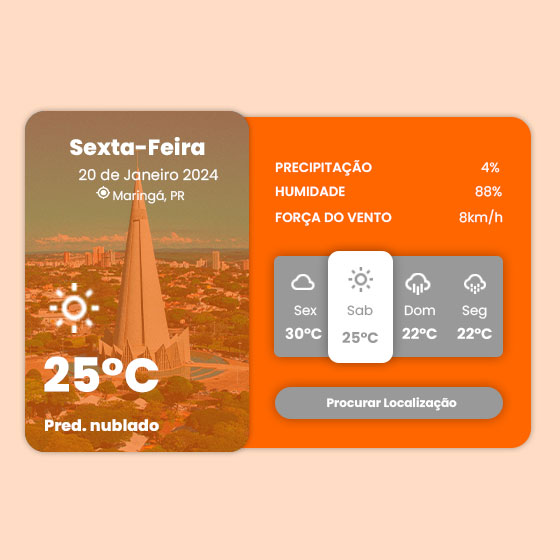
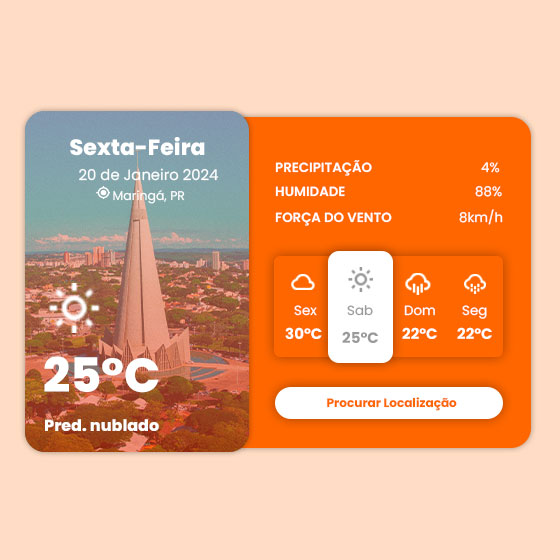
HTML e CSS

diff --git a/style.css b/style.css
@@ -1,0 +1,173 @@
+  @import url('https://fonts.googleapis.com/css2?family=Gilda+Display&family=Poppins:wght@300;400;500;600;700;800&display=swap');
+
+  *{
+    margin: 0;
+    padding: 0;
+    box-sizing: border-box;
+    font-family: 'Poppins', sans-serif;
+  }
+
+  :root {
+    --cor-primaria: #ff6600; /* Laranja */
+    --cor-secundaria: #999999; /* Cinza */
+    --cor-fundo: #ffdcc4; /* Laranja claro */
+    --cor-texto: #FFF; /* Brano */
+    --sombra: rgba(0, 0, 0, 0.35); /* Sombra */
+  }
+  
+
+  body{
+    background-color: var(--cor-fundo);
+    height: 100vh;
+    display: flex;
+    align-items: center;
+    justify-content: center;
+  }
+
+  .container{
+    height: 25rem;
+    background-color: var(--cor-primaria);
+    color: var(--cor-texto);
+    border-radius: 1.56rem;
+    box-shadow: 0 0.31rem 0.93rem var(--sombra);
+  }
+
+  .info-esquerda{
+    width: 16.25rem;
+    height: 100%;
+    float: left;
+    display: flex;
+    border-radius: 1.56rem;
+    justify-content: center;
+    background: url("mga.jpg");
+    background-position: center;
+    background-size: cover;
+    transform: scale(1.03) perspective(12.5rem);
+    cursor: pointer;
+    box-shadow: 0 0 1.25rem -0.62rem rgba(0, 0, 0, 0.2);
+    transition: all 0.3s ease;
+  }
+
+  .info-esquerda:hover{
+    transform: scale(1.1) perspective(156.25rem) rotateY(5deg);
+  }
+
+.pic-gradient{
+  position: absolute;
+  width: 100%;
+  height: 100%;
+  top: 0;
+  left: 0;
+  background: linear-gradient(135deg, #ffaf8f 10%, #ff3300 100%);
+  border-radius: 1.56rem;
+  opacity: 0.5;
+}
+
+.info-hoje{
+  position: absolute;
+  display: flex;
+  flex-direction: column;
+  margin-top: 1.56rem;
+}
+
+.clima-hoje{
+  position: absolute;
+  display: flex;
+  flex-direction: column;
+  align-items: flex-start;
+  bottom: 1.25rem;
+  left: 1.25rem;
+}
+
+.clima-hoje .bx{
+  font-size: 4.6rem;
+}
+
+.clima-temp{
+  font-weight: 700;
+  font-size: 3.5rem;
+}
+
+  .info-direita{
+    float: right;
+    position: relative;
+    height: 100%;
+    padding-top: 1.56rem;
+  }
+
+.info-dia{
+  padding: 1.56rem 2.18rem;
+  display: flex;
+  flex-direction: column;
+}
+
+.info-dia div:not(:last-child){
+  margin-bottom: 0.37rem;
+}
+
+.info-dia div .titulo{
+ font-weight: 700;
+}
+
+.info-dia div .valor{
+  float: right;
+}
+
+.lista-dias{
+  display: flex;
+  list-style: none;
+  margin: 0.62rem 2.18rem;
+  box-shadow: 0 0.31rem 0.93rem var(--sombra);
+  border-radius: 0.62rem;
+}
+
+.lista-dias li{
+  padding: 0.93rem;
+  cursor: pointer;
+  display: flex;
+  flex-direction: column;
+  justify-content: space-between;
+  align-items: center;
+  border-radius: 0.62rem;
+  transition: all 0.3s ease;
+}
+
+.lista-dias li .bx{
+  margin-bottom: 0.31rem;
+  font-size: 2rem;
+}
+
+.lista-dias li:hover{
+  transform: scale(1.1);
+  background: var(--cor-texto);
+  color: var(--cor-primaria);
+  box-shadow: 0 0.31rem 0.93rem var(--sombra);
+}
+
+.lista-dias li .clima-temp{
+  margin-top: 0.37rem;
+  font-weight: 700;
+}
+
+.btn-container{
+  padding: 1.56rem 2.18rem;
+}
+
+.botao-local{
+  outline: none;
+  width: 100%;
+  border: none;
+  font-weight: 700;
+  border-radius: 1.56rem;
+  padding: 0.62rem;
+  background: var(--cor-texto);
+  color: var(--cor-primaria);
+  cursor: pointer;
+  box-shadow: 0 0.31rem 0.93rem var(--sombra);
+  transition: all 0.3s ease;
+}
+
+.botao-local:hover{
+  background: var(--cor-fundo);
+  color: var(--cor-primaria);
+}

diff --git a/index.html b/index.html
@@ -1,0 +1,83 @@
+<!DOCTYPE html>
+<html lang="pr-bt">
+
+<head>
+  <meta charset="UTF-8">
+  <meta name="viewport" content="width=device-width, initial-scale=1.0">
+  <link href='https://unpkg.com/boxicons@2.1.4/css/boxicons.min.css' rel='stylesheet'>
+  <link rel="stylesheet" href="style.css">
+  <title>Clima Tempo</title>
+</head>
+
+<body>
+
+    <div class="container">
+      <div class="info-esquerda">
+        <div class="pic-gradient"></div>
+          <div class="info-hoje">
+            <h2>Sexta</h2>
+              <span>19 de Janeiro 2024</span>
+              <div>
+                <i class='bx bx-current-location'></i>
+                  <span>Maringá, PR</span>
+              </div>
+          </div>
+          <div class="clima-hoje">
+            <i class='bx bx-cloud-drizzle' ></i>
+            <h1 class="clima-temp">
+              25ºC
+            </h1>
+            <h3>Pred. Nublado</h3>
+          </div>
+        </div>
+
+        <div class="info-direita">
+        <div class="info-dia">
+          <div>
+          <span class="titulo">PRECIPITAÇÃO</span>
+          <span class="valor">4 %</span>
+        </div>
+        <div>
+          <span class="titulo">HUMIDADE</span>
+          <span class="valor">88 %</span>
+        </div>
+        <div>
+          <span class="titulo">FORÇA DO VENTO</span>
+          <span class="valor">8 km/h</span>
+        </div>
+      </div>
+
+      <ul class="lista-dias">
+        <li>
+          <i class='bx bx-cloud' ></i>
+          <span>Sex</span>
+          <span class="dia-temp">30°C</span>
+        </li>
+        <li>
+          <i class='bx bx-sun'></i>
+          <span>Sab</span>
+          <span class="dia-temp">25°C</span>
+        </li>
+        <li>
+          <i class='bx bx-cloud-rain' ></i>
+          <span>Dom</span>
+          <span class="dia-temp">22°C</span>
+        </li>
+        <li>
+          <i class='bx bx-cloud-snow' ></i>
+          <span>Seg</span>
+          <span class="dia-temp">22°C</span>
+        </li>
+      </ul>
+
+      <div class="btn-container">
+        <button class="botao-local">Procurar Localização</button>
+      </div>
+
+    </div>
+
+    </div>
+
+</body>
+
+</html>
